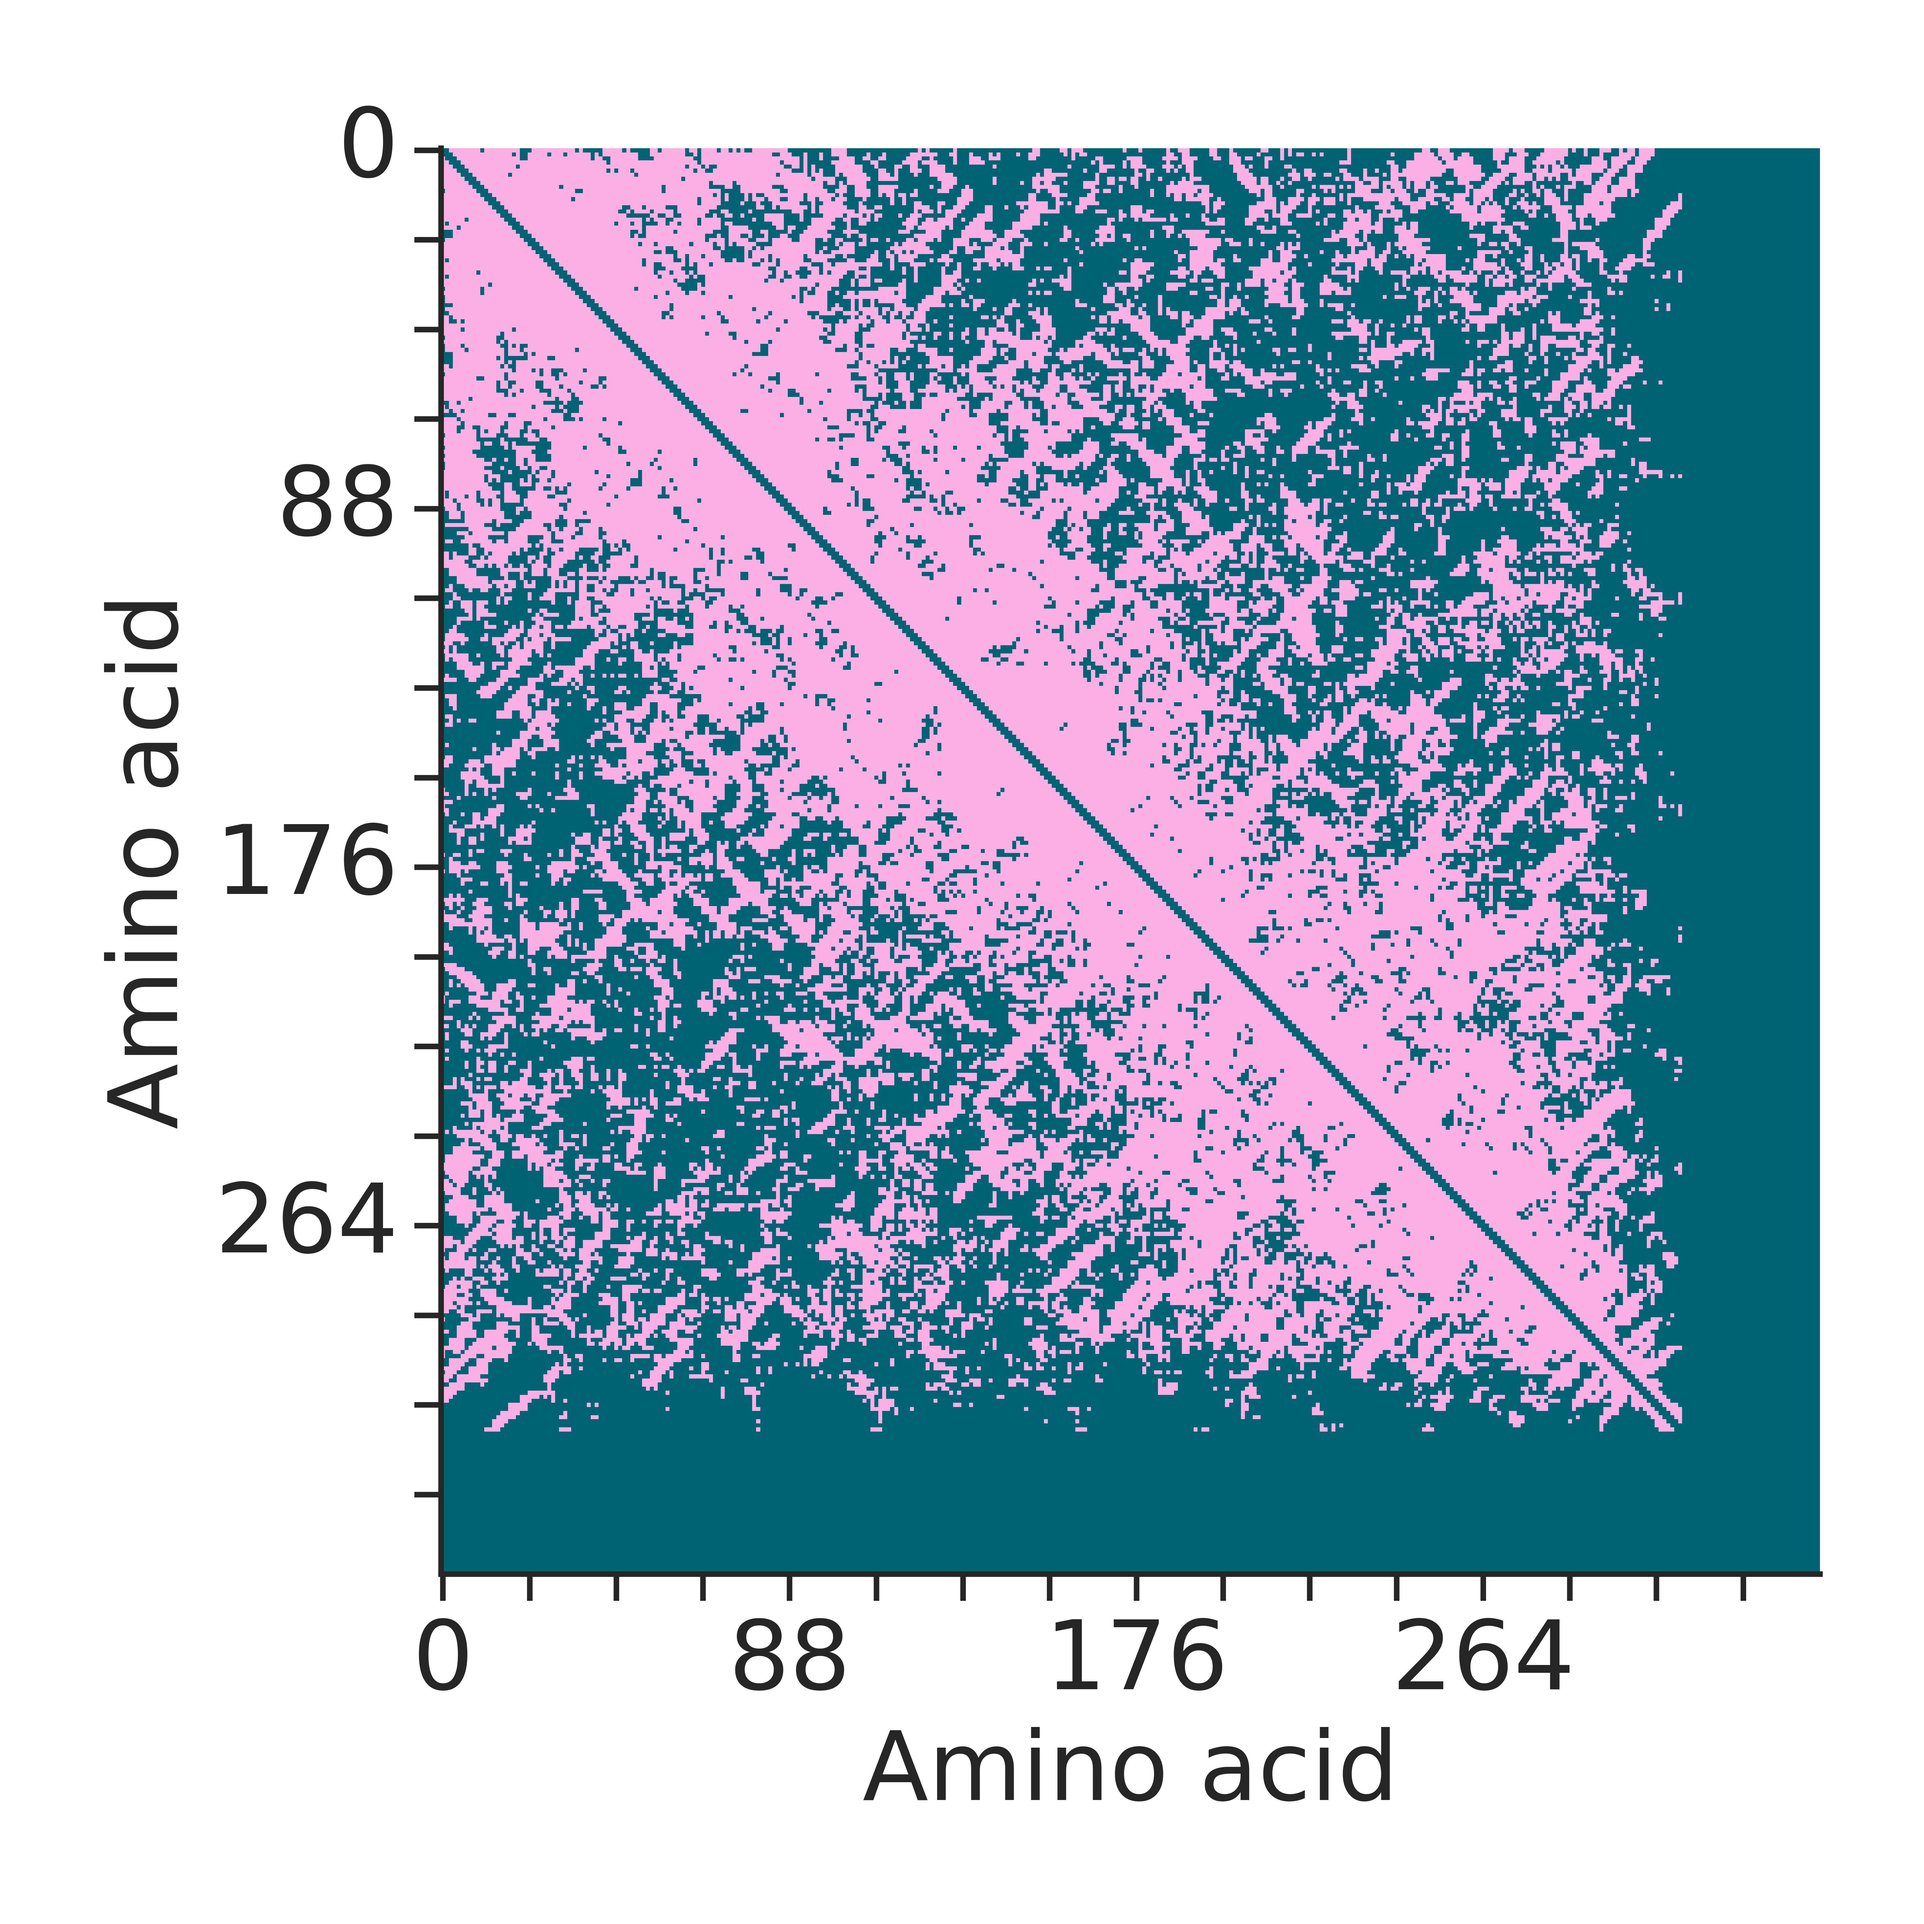
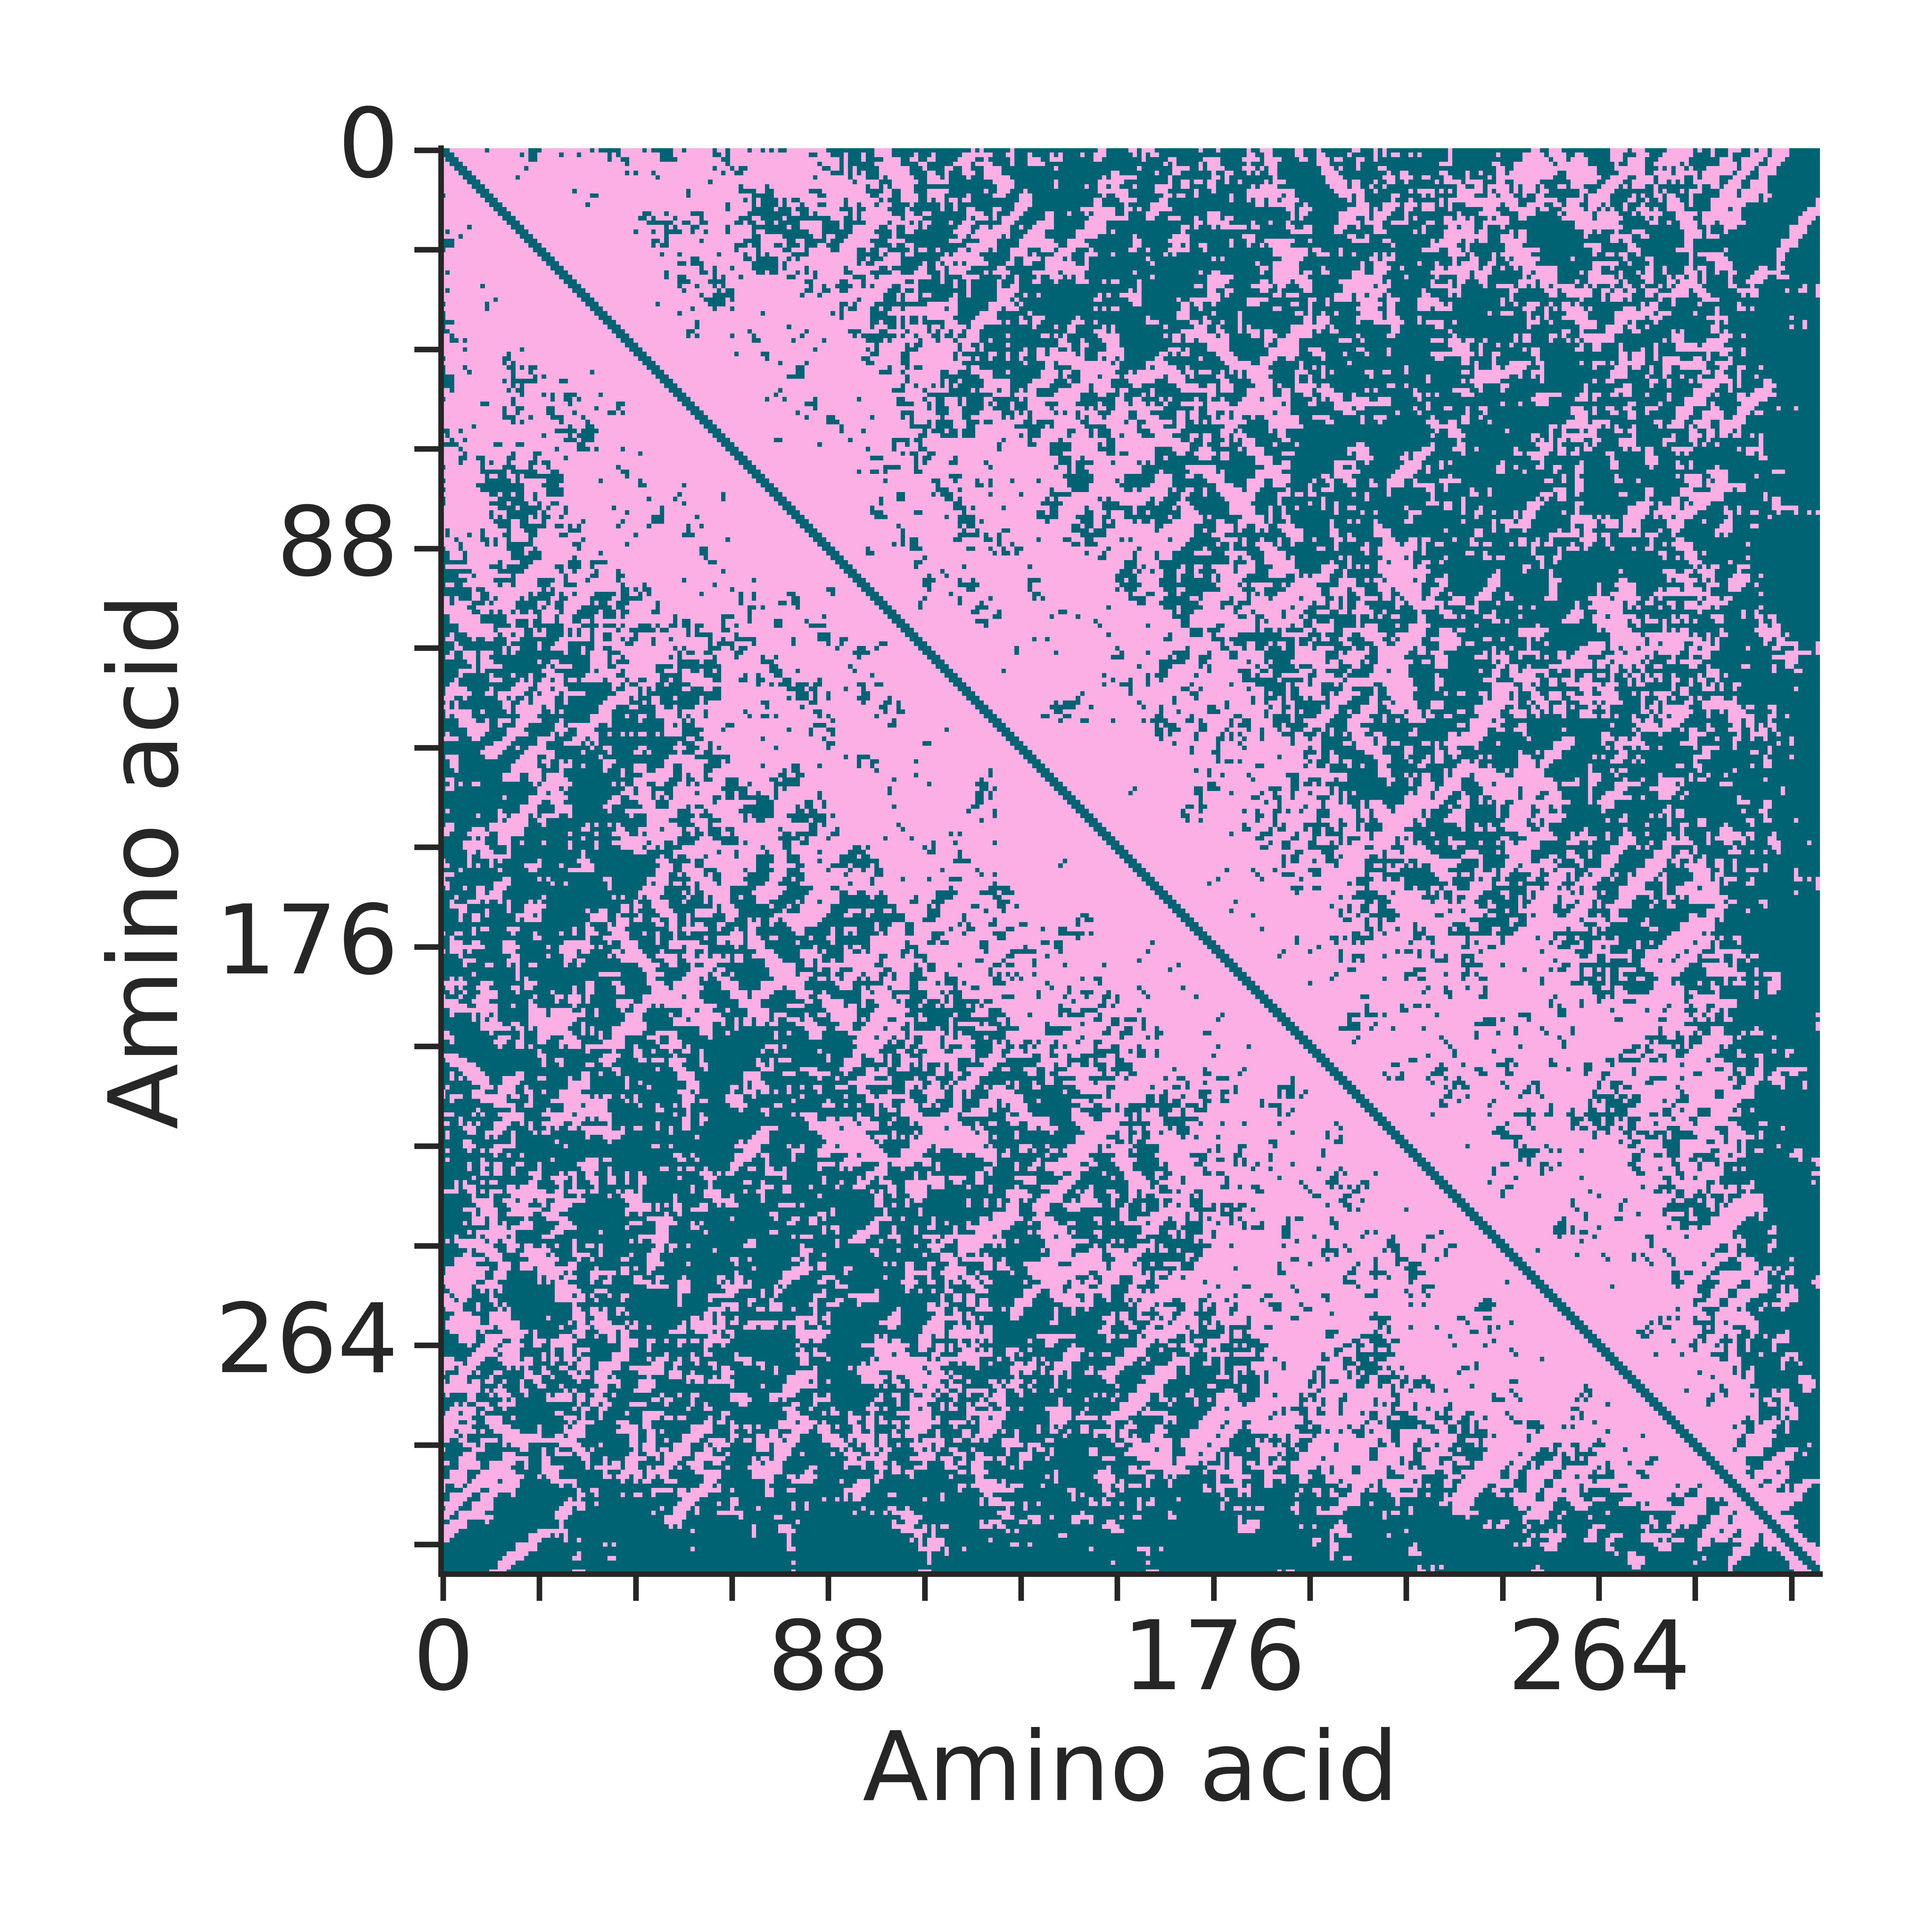
depadded average djacency plot

diff --git a/scripts/comparison.py b/scripts/comparison.py
@@ -4,7 +4,6 @@ import numpy as np
 import scipy.optimize
 import matplotlib.pyplot as plt
 import seaborn as sns
-import pandas as pd
 import plot_functions
 import theory_functions
 from colour_palette import _COLOUR_PALETTE
@@ -57,11 +56,7 @@ def create_comparison_plot(arguments: argparse.Namespace, rcsb_histogram: np.nda
     ks_index = int(rcsb_chain_length) + 15
     ks_statistics = scipy.stats.ks_2samp(rcsb_measure[:ks_index], alpha_measure[:ks_index])
     alpha_confidence = 0.01
-    # c_alpha_multiplier = theory_functions.get_ks_multiplier(alpha_confidence)
-    # print(f"rcsb: {len(rcsb_measure)}, alphafold 2: {len(alpha_measure)}")
-    # ks_condition = theory_functions.ks_critical_condition(len(rcsb_measure), len(alpha_measure), c_alpha_multiplier)
-    # print(f"KS critical condition: {ks_condition}")
-    # is_accepted = theory_functions.accept_null_hypothesis(ks_statistics.statistic, ks_condition)
+    is_accepted = theory_functions.accept_null_hypothesis(ks_statistics.pvalue, alpha_confidence)
     fig = plt.figure()
     fig.set_size_inches((6, 6))
     sns.set(context="notebook", palette="colorblind", style="ticks", font_scale=1.88)
@@ -90,7 +85,7 @@ def create_comparison_plot(arguments: argparse.Namespace, rcsb_histogram: np.nda
     print("-----------------------KS STATISTICS----------------------")
     print(f"KS statistic: {ks_statistics.statistic}")
     print(f"p value: {ks_statistics.pvalue}")
-    # print(f"Null hypothesis accepted at alpha={alpha_confidence}: {is_accepted}")
+    print(f"Null hypothesis accepted at alpha={alpha_confidence}: {is_accepted}")
     print("\n")
     plt.yscale("log")
     plt.xscale("log")
@@ -106,3 +101,51 @@ def create_comparison_plot(arguments: argparse.Namespace, rcsb_histogram: np.nda
         plt.savefig("../plots/supplementary_material/low_confidence_comparison.jpeg", dpi=2600)
     elif not arguments.low:
         plt.savefig("../plots/supplementary_material/comparison.jpeg", dpi=2600)
+
+
+def create_low_condidence_comparison_plot(arguments: argparse.Namespace, rcsb_histogram: np.ndarray,
+                                          alpha_histogram: np.ndarray):
+
+    rcsb_plotting_tuple = plot_functions.get_data_for_plotting(rcsb_histogram, arguments, arguments.length_range)
+    rcsb_chain_length = rcsb_plotting_tuple[0]
+    rcsb_distances = rcsb_plotting_tuple[1]
+    rcsb_measure = rcsb_plotting_tuple[2]
+    rcsb_lower_bound, rcsb_upper_bound = rcsb_plotting_tuple[3], rcsb_plotting_tuple[4]
+
+    alpha_plotting_tuple = plot_functions.get_data_for_plotting(alpha_histogram, arguments, arguments.length_range)
+    alpha_distances = alpha_plotting_tuple[1]
+    alpha_measure = alpha_plotting_tuple[2]
+
+    ks_index = int(rcsb_chain_length) + 15
+    ks_statistics = scipy.stats.ks_2samp(rcsb_measure[:ks_index], alpha_measure[:ks_index])
+    alpha_confidence = 0.01
+    is_accepted = theory_functions.accept_null_hypothesis(ks_statistics.pvalue, alpha_confidence)
+
+    fig = plt.figure()
+    fig.set_size_inches((6, 6))
+    sns.set(context="notebook", palette="colorblind", style="ticks", font_scale=1.88)
+
+    plt.scatter(rcsb_distances, rcsb_measure, label=f"RCSB {arguments.length_range}",
+                color=_COLOUR_PALETTE["PDB_SCATTER"], marker="o")
+    plt.fill_between(rcsb_distances, rcsb_upper_bound, rcsb_lower_bound,
+                     color=_COLOUR_PALETTE["PDB_SCATTER"], alpha=0.25, label="RCSB 95% C.L.", zorder=-99)
+    plt.scatter(alpha_distances, alpha_measure, label=f"AlphaFold 2 {arguments.length_range} low-conf.",
+                color=_COLOUR_PALETTE["ALPHA_SCATTER"], marker="s")
+    print("\n")
+    print("-----------------------KS STATISTICS----------------------")
+    print(f"KS statistic: {ks_statistics.statistic}")
+    print(f"p value: {ks_statistics.pvalue}")
+    print(f"Null hypothesis accepted at alpha={alpha_confidence}: {is_accepted}")
+    print("\n")
+    plt.yscale("log")
+    plt.xscale("log")
+    plt.xlim(4, arguments.end_point)
+    plt.ylim(0.000005, 0.1)
+    plt.xlabel("s")
+    plt.ylabel("P(s)")
+    plt.legend(loc="lower left", fontsize=16)
+    sns.despine()
+    plt.tight_layout()
+    plt.show()
+    plt.savefig("../plots/supplementary_material/low_confidence_comparison.jpeg", dpi=2600)
+

diff --git a/scripts/theory_functions.py b/scripts/theory_functions.py
@@ -102,34 +102,14 @@ def error_on_least_squares(covariance: np.ndarray) -> np.ndarray:
     return np.sqrt(np.diag(covariance))
 
 
-def get_ks_multiplier(alpha_confidence=0.01) -> float:
-    """
-    Calculate the constant c(alpha) for ks statistics
-    @param alpha_confidence: confidence level to use, default 0.01
-    @return: c(alpha)
-    """
-    return np.sqrt(- np.log(alpha_confidence / 2) * 0.5)
-
-
-def ks_critical_condition(distribution_n: int, distribution_m: int, multiplier: float) -> float:
-    """
-    Compute the critical condition of c(alpha) * sqrt((n+m)/nm) to determine if the null hypothesis can be accepted
-    @param distribution_n: size of the first distribution
-    @param distribution_m: size of the second distribution
-    @param multiplier: constant c(alpha); determined from the alpha confidence level
-    @return: condition to be met to accept the null hypothesis
-    """
-    return multiplier * np.sqrt((distribution_n + distribution_m) / (distribution_n * distribution_m))
-
-
-def accept_null_hypothesis(ks_statistic: float, critical_condition: float) -> bool:
+def accept_null_hypothesis(p_value: float, confidence_level: float) -> bool:
     """
     Determine if null hypothesis can be accepted; return True for accepted, False for rejected
-    @param ks_statistic:
-    @param critical_condition:
-    @return:
+    @param p_value
+    @param confidence_level
+    @return: True/False
     """
-    if ks_statistic > critical_condition:
+    if p_value < confidence_level:
         return False
     else:
         return True

diff --git a/scripts/adjacency.py b/scripts/adjacency.py
@@ -3,7 +3,6 @@ import matplotlib
 import numpy as np
 from matplotlib import pyplot as plt
 import seaborn as sns
-import protein_contact_map
 import functions
 from colour_palette import _COLOUR_PALETTE
 import pandas as pd
@@ -129,6 +128,7 @@ def plot_average_matrix(length_range: str, average_matrix: np.ndarray):
     @param length_range: chain length range as as tring
     @return: None
     """
+    maximum_residue = [array_index for array_index in range(len(average_matrix)) if 1 not in average_matrix[array_index]][0]
     plt.figure(figsize=(6, 6))
     sns.set(context="notebook", palette="colorblind", style="ticks", font_scale=1.8)
     colormap = [_COLOUR_PALETTE["NO_CONTACT"], _COLOUR_PALETTE["CONTACT"]]
@@ -137,6 +137,8 @@ def plot_average_matrix(length_range: str, average_matrix: np.ndarray):
     heatmap.set_xlabel("Amino acid")
     heatmap.set_ylabel("Amino acid")
     sns.despine()
+    plt.xlim(0, maximum_residue)
+    plt.ylim(maximum_residue, 0)
     plt.tight_layout()
     plt.savefig(f"../plots/adjacency_matrices/average_matrix_{length_range}.jpeg", dpi=900)
 

diff --git a/scripts/plot.py b/scripts/plot.py
@@ -20,7 +20,10 @@ def plot() -> None:
     if algorithm == "comp":
         rcsb_histogram = plot_functions.get_histogram(arguments.length_range, "rcsb", arguments.low)
         alpha_histogram = plot_functions.get_histogram(arguments.length_range, "alpha", arguments.low)
-        comparison.create_comparison_plot(arguments, rcsb_histogram, alpha_histogram)
+        if arguments.low:
+            comparison.create_low_condidence_comparison_plot(arguments, rcsb_histogram, alpha_histogram)
+        else:
+            comparison.create_comparison_plot(arguments, rcsb_histogram, alpha_histogram)
     elif algorithm == "bar":
         bars.create_bar_plots()
     elif algorithm == "rcsb" or algorithm == "alpha":
